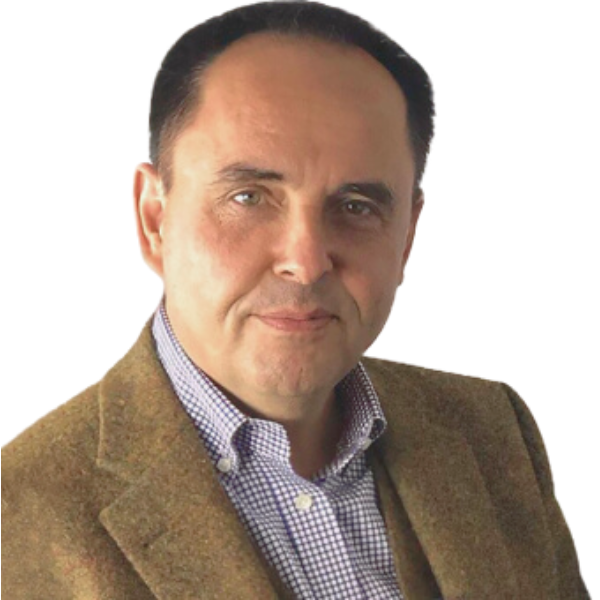
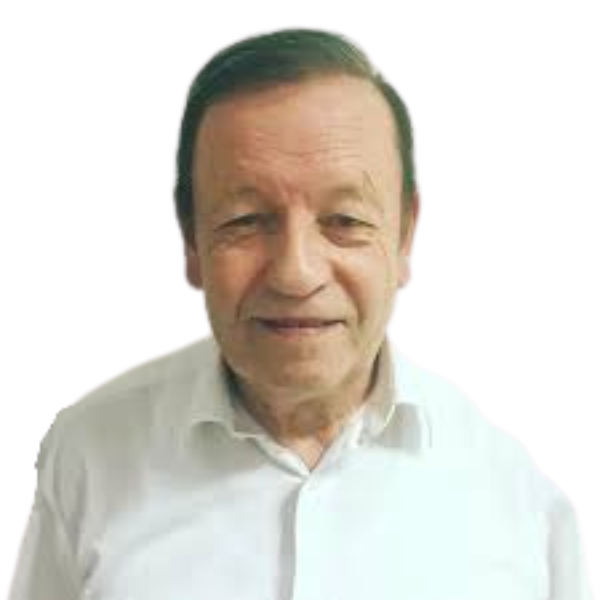
add images

diff --git a/app/nosotros/page.tsx b/app/nosotros/page.tsx
@@ -123,12 +123,72 @@ export default function NosotrosPage() {
               </div>
               
               <div className="flex justify-center">
-                <div className="w-96 h-96 bg-gradient-to-br from-cyan-50 to-cyan-100 rounded-2xl shadow-lg border border-gray-100 flex items-center justify-center">
-                  <div className="text-center text-gray-400">
-                    <div className="text-8xl mb-4">🏥</div>
-                    <p className="text-lg font-light">Centro Médico CMR</p>
-                  </div>
+                <div className="w-96 h-96 bg-gradient-to-br from-cyan-50 to-cyan-100 rounded-2xl shadow-lg border border-gray-100 relative overflow-hidden">
+                  <Image 
+                    src="/cmr_centro.jpeg" 
+                    alt="Centro de Medicina Regenerativa CMR" 
+                    fill 
+                    className="object-cover" 
+                  />
                 </div>
+              </div>
+            </div>
+          </div>
+        </section>
+
+        <section className="py-16 bg-white">
+          <div className="container mx-auto px-4 sm:px-6 lg:px-8 max-w-6xl">
+            <div className="text-center mb-16">
+              <h2 className="text-3xl md:text-4xl font-light text-gray-900 mb-6">
+                Nuestro <span className="font-medium text-cyan-600">Equipo Médico</span>
+              </h2>
+              <p className="text-xl text-gray-600 max-w-3xl mx-auto leading-relaxed font-light">
+                Profesionales medicos capacitados dedicados a tu bienestar y recuperación
+              </p>
+            </div>
+
+            <div className="grid md:grid-cols-2 lg:grid-cols-4 gap-8 mb-16">
+              <div className="text-center">
+                <div className="w-24 h-24 rounded-full mx-auto mb-3 relative overflow-hidden bg-gray-200 flex items-center justify-center">
+                  <div className="text-gray-400 text-2xl">👨⚕</div>
+                </div>
+                <h3 className="text-lg font-medium text-gray-900">Dr. Victor Ocasio</h3>
+              </div>
+
+              <div className="text-center">
+                <div className="w-24 h-24 rounded-full mx-auto mb-3 relative overflow-hidden">
+                  <Image 
+                    src="/dra_nieves.png" 
+                    alt="Dra. Sheila Nieves" 
+                    fill 
+                    className="object-cover" 
+                  />
+                </div>
+                <h3 className="text-lg font-medium text-gray-900">Dra. Sheila Nieves</h3>
+              </div>
+
+              <div className="text-center">
+                <div className="w-24 h-24 rounded-full mx-auto mb-3 relative overflow-hidden">
+                  <Image 
+                    src="/dra_rosa.png" 
+                    alt="Dra. Christina Rosa" 
+                    fill 
+                    className="object-cover" 
+                  />
+                </div>
+                <h3 className="text-lg font-medium text-gray-900">Dra. Christina Rosa</h3>
+              </div>
+
+              <div className="text-center">
+                <div className="w-24 h-24 rounded-full mx-auto mb-3 relative overflow-hidden">
+                  <Image 
+                    src="/dra_gonzalez.png" 
+                    alt="Dra. Emma González" 
+                    fill 
+                    className="object-cover" 
+                  />
+                </div>
+                <h3 className="text-lg font-medium text-gray-900">Dra. Emma González</h3>
               </div>
             </div>
           </div>

diff --git a/app/tratamientos/page.tsx b/app/tratamientos/page.tsx
@@ -82,7 +82,7 @@ export default function TratamientosPage() {
     },
     {
       id: 4,
-      title: 'Terapia Disfunción Eréctil',
+      title: 'Terapia de Optimización Masculina',
       shortDescription: 'APEX es una plataforma de radiofrecuencia inteligente no invasiva diseñada para optimizar la vitalidad masculina, fortaleciendo la función vascular y estructural en zonas clave para el rendimiento masculino.',
       fullDescription: 'Mediante el uso de radiofrecuencia bipolar de alta precisión, APEX estimula la angiogénesis (formación de nuevos vasos sanguíneos) y la neocolagénesis (síntesis de nuevo colágeno), mejorando la circulación local y reforzando las estructuras que contribuyen a una vida íntima activa, duradera y saludable. Gracias a su tecnología de control térmico en tiempo real y a su aplicador de tamaño reducido, APEX permite tratar tejidos delicados con máxima seguridad, confort y efectividad, sin recurrir a fármacos ni procedimientos invasivos.',
       benefits: [
@@ -338,8 +338,8 @@ export default function TratamientosPage() {
                             />
                           ) : treatment.id === 4 ? (
                             <Image 
-                              src="/erectile_dysfunction.png" 
-                              alt="Terapia Disfunción Eréctil" 
+                              src="/male_optimization_therapy.png" 
+                              alt="Terapia de Optimización Masculina" 
                               fill 
                               className="object-cover rounded-2xl" 
                             />
